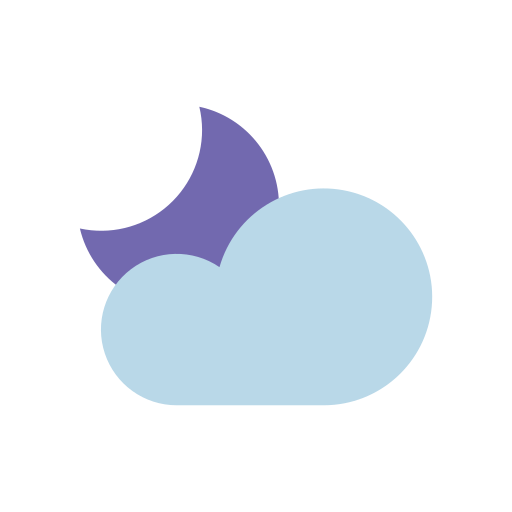
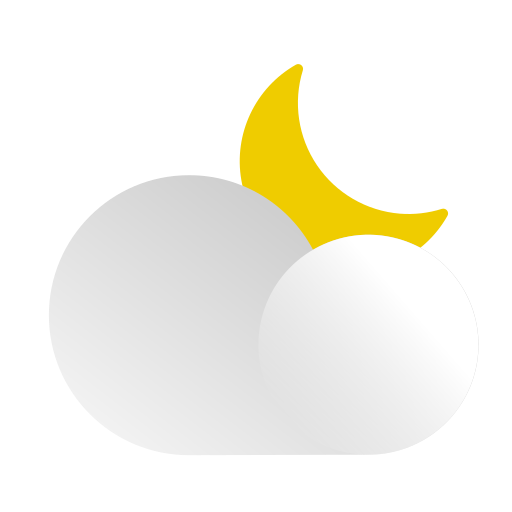
display images adapted to the weather

diff --git a/WeatherApp/WeatherPage.xaml b/WeatherApp/WeatherPage.xaml
@@ -37,8 +37,7 @@
                x:Name="ImgWeatherIcon"
                VerticalOptions="Start"
                HeightRequest="300"
-               WidthRequest="300"
-               Source="nightcloud.png" />
+               WidthRequest="300" />
 
         <Grid Grid.Row="3"
               RowDefinitions="Auto, Auto"

diff --git a/WeatherApp/Services/ApiService.cs b/WeatherApp/Services/ApiService.cs
@@ -24,5 +24,34 @@ namespace WeatherApp.Services
             var response = await httpClient.GetStringAsync(string.Format("api.openweathermap.org/data/2.5/forecast?q={0}&units=metric&appid=f86a285788593c9985c95ff359a9dfad", city));
             return JsonConvert.DeserializeObject<Root>(response);
         }
+
+        public static string GetImageName(string symbol)
+        {
+            if (symbol[2] == 'd')
+            {
+                if (symbol == "01d") return "sun";
+                else if (symbol == "02d") return "sunwithclouds";
+                else if (symbol == "03d") return "clouds";
+                else if (symbol == "04d") return "darkclouds";
+                else if (symbol == "09d") return "cloudswithrain";
+                else if (symbol == "10d") return "cloudswithrainandsun";
+                else if (symbol == "11d") return "thunderstorm";
+                else if (symbol == "13d") return "snow";
+                else if (symbol == "50d") return "fog";
+            }
+            else if (symbol[2] == 'n')
+            {
+                if (symbol == "01n") return "sun";
+                else if (symbol == "02n") return "nightcloud";
+                else if (symbol == "03n") return "clouds";
+                else if (symbol == "04n") return "darkclouds";
+                else if (symbol == "09n") return "cloudswithrain";
+                else if (symbol == "10n") return "cloudswithrainandmoon";
+                else if (symbol == "11n") return "thunderstorm";
+                else if (symbol == "13n") return "snow";
+                else if (symbol == "50n") return "fog";
+            }
+            return "sun";
+        }
     }
 }
